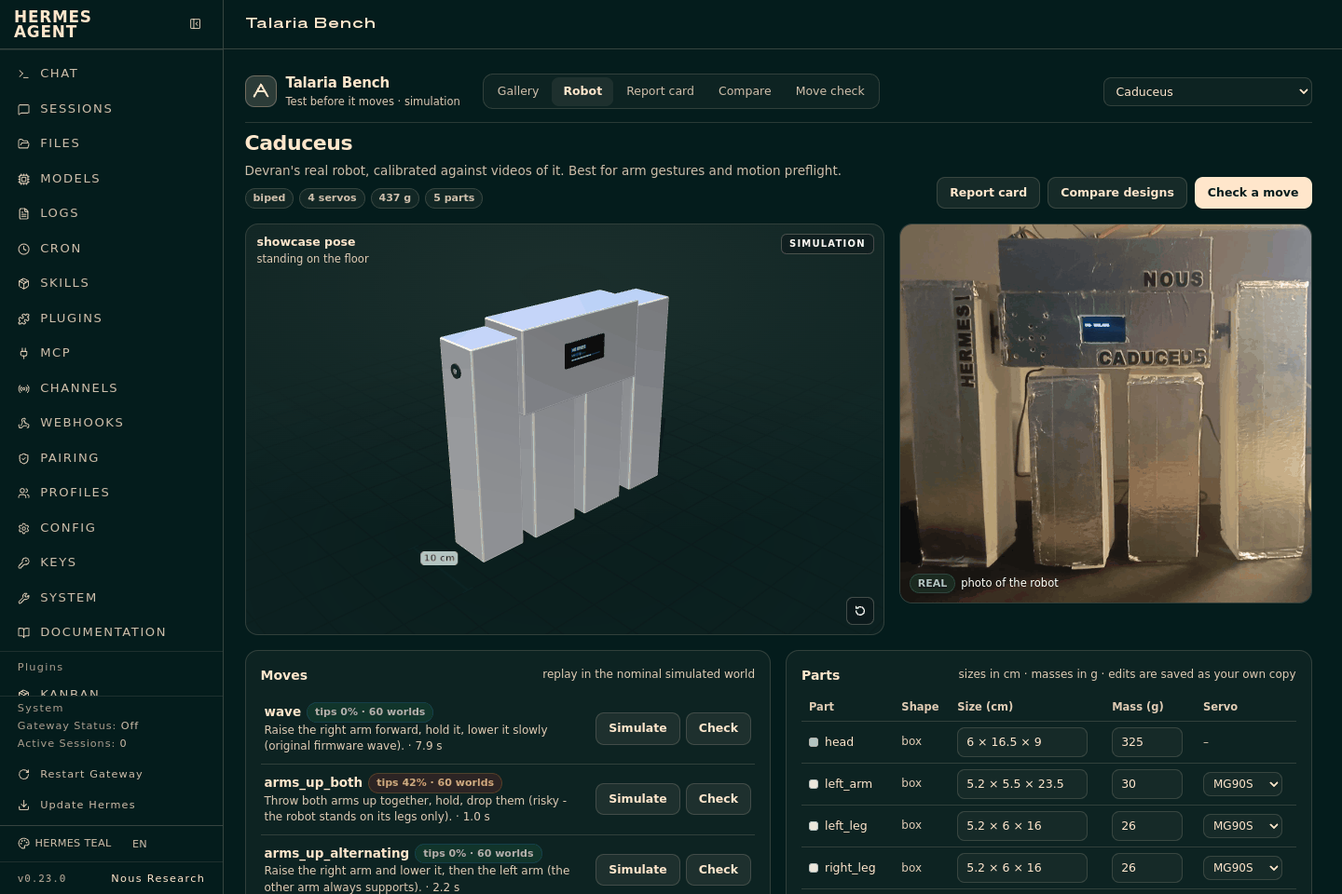
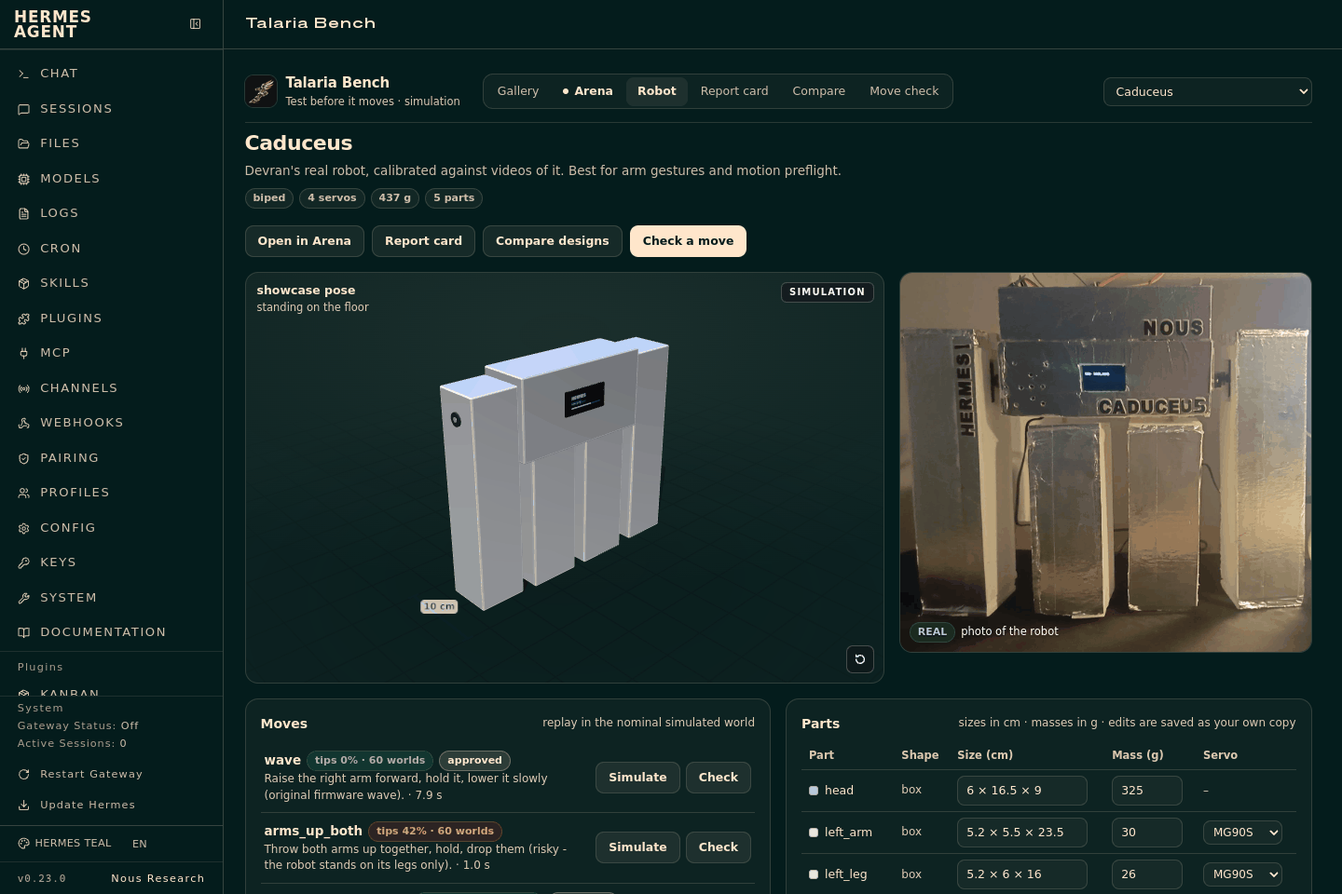
README, screenshots and changelog for the 1.0.0 release
README: Arena section with a screenshot, every user-facing feature (tools,
commands, CLI, saved moves, custom pose, median/worst replay, OUT OF MODEL
SCOPE, safety layers, firmware HTTP API), the real-hardware results for
Caduceus and the new scope and assumptions, a demo video placeholder, and
images as Markdown so the catalog page shows them. The 3D model is described
as built from a template and measurements; the photo is for comparison.
Fresh screenshots of the current UI (Arena tab, new logo), banner, tour GIF
and pipeline diagram. CHANGELOG 1.0.0 and the catalog draft updated.

diff --git a/scripts/ui_screens.py b/scripts/ui_screens.py
@@ -41,11 +41,10 @@ def settle(page: Page, ms: int = 2500) -> None:
     page.wait_for_timeout(ms)
 
 
-def shot(page: Page, prefix: str, name: str, full: bool = False) -> None:
+def shot(page: Page, prefix: str, name: str, full: bool = False, clip: dict | None = None) -> None:
     OUT.mkdir(parents=True, exist_ok=True)
     path = OUT / f"{prefix}-{name}.png"
-    clip = None
-    if prefix.startswith("desktop") and not full:
+    if clip is None and prefix.startswith("desktop") and not full:
         # Leave out the Desktop session list: it shows the user's own chat titles and user name.
         size = page.viewport_size or {"width": 1440, "height": 960}
         clip = {"x": 261, "y": 0, "width": size["width"] - 261, "height": size["height"]}
@@ -117,9 +116,30 @@ def run(page: Page, prefix: str) -> None:
     page.wait_for_timeout(500)
     shot(page, prefix, "compare-spider8-high-step")
 
+    # Arena: the spider next to a 1.3x larger copy (the page's default change) on the 10 deg ramp, same world.
+    tab(page, "Arena")
+    page.wait_for_selector(".tb-scene-grid", timeout=60_000)
+    page.locator(".tb-scene", has_text="Ramp 10").first.click()
+    page.wait_for_timeout(400)
+    page.get_by_role("button", name="Simulate").click()
+    page.wait_for_selector(".tb-arena-replay canvas", timeout=300_000)
+    page.wait_for_selector(".tb-table-arena", timeout=300_000)
+    settle(page, 3500)
+    scrub(page, 5.0)
+    page.locator(".tb-arena-replay").evaluate("el => el.scrollIntoView({ block: 'start' })")
+    page.wait_for_timeout(700)
+    # The page ends below the results, so the replay cannot reach the top: crop to the replay and the results.
+    top = page.locator(".tb-arena-replay").bounding_box()
+    bottom = page.locator(".tb-card", has=page.locator(".tb-table-arena")).bounding_box()
+    pad = 16
+    shot(page, prefix, "arena-spider8-ramp10", clip={"x": top["x"] - pad, "y": top["y"] - pad,
+                                                      "width": top["width"] + 2 * pad,
+                                                      "height": bottom["y"] + bottom["height"] - top["y"] + 2 * pad})
+
     tab(page, "Move check")
     pick_robot(page, "caduceus")
-    for move, name in (("arms_up_both", "check-arms_up_both-blocked"), ("arms_up_alternating", "check-arms_up_alternating-pass")):
+    # The passing example is the wave: it passed the gate and also played as checked on the real Caduceus.
+    for move, name in (("arms_up_both", "check-arms_up_both-blocked"), ("wave", "check-wave-pass")):
         page.locator(".tb-field select").first.select_option(move)
         page.get_by_role("button", name="Run preflight").click()
         page.wait_for_selector(".tb-verdict", timeout=300_000)

diff --git a/scripts/readme_media.py b/scripts/readme_media.py
@@ -3,7 +3,7 @@
 * docs/img/banner.png (2:1, the catalog image): the Caduceus photo next to its 3D model, four gallery robots,
   the name and the headline. Laid out as HTML and rendered with headless Chromium.
 * docs/img/banner-x.png (1500x500): the cover for an X / social profile: the logo, the name and the tagline.
-* docs/img/tour.gif: gallery -> robot page -> report card -> replay -> compare -> BLOCKED -> PASS.
+* docs/img/tour.gif: gallery -> robot page -> report card -> replay -> compare -> Arena -> BLOCKED -> PASS.
 * docs/img/screens/*.png are re-saved with a 256-colour palette (README use only; keeps the repository small).
 
 Dev tool (needs Playwright and Pillow, which are not plugin dependencies). Run after render_gallery.py and
@@ -84,7 +84,7 @@ li::before { content: ""; width: 8px; height: 8px; border-radius: 50%; backgroun
   <h1><img src="@@LOGO@@">Talaria Bench</h1>
   <p class="head">Test your DIY robot in physics<br>before it moves.<b>No GPU, no CAD.</b></p>
   <ul>
-    <li>Robot from a photo and a few measurements</li>
+    <li>Robot from a template and a few measurements</li>
     <li>Arena benchmark with a report card</li>
     <li>Compare designs before you build</li>
     <li>Every real move screened in simulation</li>
@@ -200,13 +200,15 @@ def tour() -> Path:
              ("dashboard-report-spider8", "3  One click: the report card"),
              ("dashboard-report-spider8-replay", "4  Replay the median and the worst world"),
              ("dashboard-compare-spider8-high-step", "5  Compare design variants on the same worlds"),
-             ("dashboard-check-arms_up_both-blocked", "6  Preflight blocks a move that tips"),
-             ("dashboard-check-arms_up_alternating-pass", "7  A revised move passes the gate")]
+             ("dashboard-arena-spider8-ramp10", "6  Arena: a robot and its changed version, same world"),
+             ("dashboard-check-arms_up_both-blocked", "7  Preflight blocks a move that tips"),
+             ("dashboard-check-wave-pass", "8  A move that passes the gate")]
     W, H, BAR = 960, 640, 44
     frames = []
     for name, caption in shots:
         im = Image.open(SCREENS / f"{name}.png").convert("RGB")
-        im = im.crop((HERMES_NAV_PX, 0, im.width, im.height))
+        if im.width >= 1440:                                       # a full window: leave out Hermes's own navigation
+            im = im.crop((HERMES_NAV_PX, 0, im.width, im.height))
         im = im.resize((W, int(im.height * W / im.width)), Image.LANCZOS).crop((0, 0, W, H - BAR))
         frame = Image.new("RGB", (W, H), BG)
         frame.paste(im, (0, BAR))

diff --git a/scripts/diagrams.py b/scripts/diagrams.py
@@ -79,11 +79,11 @@ class Svg:
 
 
 def pipeline(theme) -> Svg:
-    s = Svg(1040, 232, theme, "How Talaria Bench works: robot spec and photo, MuJoCo model, randomized worlds, "
+    s = Svg(1040, 232, theme, "How Talaria Bench works: robot spec, MuJoCo model, randomized worlds, "
                               "arena scenes, report card")
     w, h, gap, y = 176, 158, 40, 14
     boxes = [
-        ("Robot spec + photo", ["parts in cm and g,", "hobby servo models;", "photo: appearance only"]),
+        ("Robot spec", ["template + your numbers:", "parts in cm and g,", "hobby servo models"]),
         ("MuJoCo model", ["soft contacts by material,", "servo torque and speed,", "servo free play"]),
         ("Randomized worlds", ["friction, mass, torque,", "latency, offsets, floor tilt;", "30 per scene, 60 per move"]),
         ("Arena scenes", ["flat floor, ramps, bars,", "push, slippery floor,", "payload, standing moves"]),

diff --git a/README.md b/README.md
@@ -1,4 +1,4 @@
-<p align="center"><img src="docs/img/banner.png" alt="Talaria Bench: a real foam-board robot next to its simulated model" width="100%"></p>
+![Talaria Bench: a photo of a real foam-board robot next to its simulated model](docs/img/banner.png)
 
 # <img src="docs/img/logo-tile.png" alt="" width="40" align="top"> Talaria Bench
 
@@ -13,14 +13,17 @@ A [Hermes Agent](https://github.com/NousResearch/hermes-agent) plugin for hobby 
 MG996R and friends), built on MuJoCo. In Greek myth, talaria are Hermes's winged sandals: the thing that
 makes him move.
 
-- Describe your robot with a photo and a few measurements, and see it in 3D inside Hermes.
+- Build your robot from a template and a few measurements, and see it in 3D inside Hermes, next to its photo.
 - One click: flat ground, ramp, obstacles, push and slippery-floor tests, with a report card that says why it fails.
 - Compare design variants (longer legs, stronger servos) before you build or print anything.
 - Arena: put a robot and a resized, reweighted or re-servoed version of it on the same ramp, bar or push test and
   watch both side by side in the same world.
 - Every move Hermes sends to your real robot is screened in simulation first.
 
-<p align="center"><img src="docs/img/tour.gif" alt="Gallery, a robot next to its photo, report card, replay, design comparison, a blocked move and a passing move" width="92%"></p>
+Demo video: `<VIDEO LINK>`
+
+![Gallery, a robot next to its photo, report card, replay, design comparison, Arena, a blocked move and a passing move](docs/img/tour.gif)
+
 <p align="center"><sub>The Talaria Bench tab in the Hermes web dashboard (simulation).</sub></p>
 
 Every number Talaria Bench shows comes from simulation and is labelled that way. It is
@@ -36,11 +39,16 @@ This clones the plugin, installs its Python dependencies (`mujoco`, `numpy`, `py
 environment and enables it. Without `--yes-deps` Hermes asks before installing them.
 
 - **Hermes Desktop:** Capabilities -> Plugins -> make sure Talaria Bench is enabled, then open the
-  **Talaria Bench** page in the sidebar.
+  **Talaria Bench** page in the sidebar (light and dark themes).
 - **Web dashboard:** run `hermes dashboard` and open the **Talaria Bench** tab.
-- **Chat:** `/talaria demo` gives a tour without hardware: a quick benchmark of the spider, then the
+- **Chat:** `/talaria demo` gives a guided tour without hardware: a quick benchmark of the spider, then the
   preflight of two Caduceus moves (one is blocked, one passes) and a play on the virtual robot.
-  `/talaria help` lists the other commands; `hermes talaria --help` does the same in a terminal.
+  `/talaria status | gallery | bench | report | check | play | demo`; `/talaria help` lists them.
+- **Tools:** Hermes calls 14 tools on its own: `robot_list`, `robot_define`, `robot_show`, `bench_run`,
+  `bench_status`, `bench_report`, `bench_compare`, `move_check`, `move_save`, `move_list`, `robot_play`,
+  `robot_pose`, `robot_stop`, `robot_status`.
+- **Terminal:** `hermes talaria status | gallery | bench | report | check | play | demo | firmware | sim`
+  (`hermes talaria --help`).
 
 Or just ask Hermes: *"Benchmark the spider and tell me where it fails"*, *"Add my robot"* (with a photo),
 *"Write a dance for Caduceus and check it"*.
@@ -63,16 +71,29 @@ Or just ask Hermes: *"Benchmark the spider and tell me where it fails"*, *"Add m
   <tr>
     <td><img src="docs/img/screens/desktop-check-arms_up_both-blocked.png" alt="Move check: arms_up_both is BLOCKED, it tips in 25 of 60 simulated worlds"><br>
       <sub><b>BLOCKED.</b> The move tips the robot in 25 of 60 simulated worlds; the gate refuses it and says what to change.</sub></td>
-    <td><img src="docs/img/screens/dashboard-check-arms_up_alternating-pass.png" alt="Move check: arms_up_alternating passes, 0 of 60 simulated worlds tip"><br>
-      <sub><b>PASS.</b> The revised move is approved for exactly this move, speed and robot spec.</sub></td>
+    <td><img src="docs/img/screens/dashboard-check-wave-pass.png" alt="Move check: the wave passes, 0 of 60 simulated worlds tip"><br>
+      <sub><b>PASS.</b> The wave is approved for exactly this move, speed and robot spec.</sub></td>
   </tr>
 </table>
+
+## Arena
+
+![Arena: the spider and a 1.3 times larger copy on the 10 degree ramp, replayed side by side in the same simulated world, with a results table](docs/img/screens/dashboard-arena-spider8-ramp10.png)
+
+<p align="center"><sub>The spider and a copy 1.3 times its size on the 10° ramp, in the same simulated world.</sub></p>
+
+The Arena page puts a robot and one changed version of it (size x0.6 to x1.8, total mass, servo model) on one
+scene: flat floor, a 5, 10 or 15° ramp, a 1 or 2 cm bar, a push, a slippery floor or an arm payload. Both run
+in the same 10 randomized worlds. Their 3D replays play side by side in one world (the median world, the worst
+world, or a world where the two differ), with the terrain drawn, and a results table gives each one's pass rate,
+median distance, tip count and worst world. Without a change it simulates the robot alone. An Arena run never
+touches the robot's report card.
 
 ## How it works
 
 <p align="center"><picture>
   <source media="(prefers-color-scheme: dark)" srcset="docs/img/diagram-pipeline-dark.svg">
-  <img src="docs/img/diagram-pipeline-light.svg" alt="Robot spec and photo, MuJoCo model, randomized worlds, arena scenes, report card" width="100%">
+  <img src="docs/img/diagram-pipeline-light.svg" alt="Robot spec, MuJoCo model, randomized worlds, arena scenes, report card" width="100%">
 </picture></p>
 <p align="center"><sub>From a robot spec to a report card.</sub></p>
 
@@ -84,26 +105,33 @@ Or just ask Hermes: *"Benchmark the spider and tell me where it fails"*, *"Add m
 
 - **Robot spec.** Parts (box, cylinder, sphere), sizes in cm, masses in g, joints with ranges
   and hobby servo models from a small servo catalog. See [docs/robot-spec.md](docs/robot-spec.md).
-- **Arena.** Flat floor, ramps of 5, 10 and 15 deg, bars of 1 and 2 cm, a push test (0.05 to 1 x body
+- **Arena benchmark.** Flat floor, ramps of 5, 10 and 15 deg, bars of 1 and 2 cm, a push test (0.05 to 1 x body
   weight from four sides), a slippery floor (foot friction 0.08-0.15), payload steps for arms, and the
   robot's own moves. Each scene runs in 30 randomized worlds by default (10 with `quick`; 10 to 200 on
-  request). Benchmarks run as background jobs; a full benchmark of one robot takes about one to two minutes
-  on a 4-core laptop CPU.
+  request). Benchmarks run as background jobs with progress and a log (`bench_status`); a full benchmark of
+  one robot takes about one to two minutes on a 4-core laptop CPU.
 - **Report card.** GREEN / AMBER / RED per scene with the pass rate, the median and p10 of the scene's
-  main metric, the worst world and the top failure reasons. Distances count only steady progress, so a
-  one-time lurch earns nothing. Format: [docs/report-format.md](docs/report-format.md).
+  main metric, the worst world, the top failure reasons and servo load estimates. Distances count only
+  steady progress, so a one-time lurch earns nothing. Click a scene to replay its median world and its worst
+  world side by side. Scenes a model cannot simulate honestly (Caduceus's foam-foot walk, for example) are
+  marked OUT OF MODEL SCOPE instead of being scored. Format: [docs/report-format.md](docs/report-format.md).
 - **Design comparison.** Up to six variants (`legs +1.5 cm`, another servo, more mass) on the same worlds.
+- **Moves.** A move is a list of keyframes (time and joint angles). Hermes can write one (say, a dance for
+  your robot), check it and save it with `move_save`; `move_list` shows a robot's moves.
 - **Motion preflight.** A move runs in 60 fixed randomized worlds. It passes when the upper end of the
   95% Wilson interval of its tip chance is at most 10% and no servo peaks above 90% of its stall torque
   (90th percentile across worlds). A quick check starts with 30 worlds and extends a clean run to 60; it
-  never blocks on fewer than 30. Speed-limit stretches, self and ground collisions are reported too.
+  never blocks on fewer than 30. Speed-limit stretches, self and ground collisions are reported too. The
+  Move check page also checks a custom pose: go there, hold it, come back home.
 - **The gate.** A `pre_tool_call` hook lets `robot_play` and `robot_pose` through only when that exact
-  move (frames, loops, easing), speed and robot spec passed. Any change needs a new check.
+  move (frames, loops, easing), speed and robot spec passed. Any change needs a new check. The same rule
+  holds for `/talaria play` and `hermes talaria play`.
 
 ## Robot gallery
 
 Seven robots ship in `examples/robots/`. Headlines from the arena benchmark (simulation, 30 worlds per
-scene; full cards in [examples/reports/](examples/reports/), more in [docs/gallery.md](docs/gallery.md)):
+scene; full cards in [examples/reports/](examples/reports/), more in [docs/gallery.md](docs/gallery.md), how
+Caduceus was calibrated in [docs/calibration-caduceus.md](docs/calibration-caduceus.md)):
 
 | Simulation&nbsp;render | Robot | Servos | Mass | Benchmark headline (simulation) |
 |---|---|---|---|---|
@@ -112,18 +140,20 @@ scene; full cards in [examples/reports/](examples/reports/), more in [docs/galle
 | <img src="docs/img/gallery/thumbs/desk-biped4.png" alt="desk-biped4 (simulation render)" width="120"> | `desk-biped4` Desk biped | 4 | 166 g | Walks the flat target in 100% of worlds (median 18.9 cm); stuck at both bars. |
 | <img src="docs/img/gallery/thumbs/humanoid16.png" alt="humanoid16 (simulation render)" width="120"> | `humanoid16` Small humanoid | 16 | 802 g | `dance_safe` stays upright; `dance_risky` tips it in 95% of 60 preflight worlds. |
 | <img src="docs/img/gallery/thumbs/arm6.png" alt="arm6 (simulation render)" width="120"> | `arm6` Desk arm (fixed base) | 6 | 758 g | Max safe payload median 100 g (p10 95 g); at 200 g the upper arm reaches stall (estimate). |
-| <img src="docs/img/gallery/thumbs/caduceus.png" alt="caduceus (simulation render)" width="120"> | `caduceus` Caduceus | 4 | 437 g | `arms_up_both` tips it in 42% of 60 preflight worlds; `arms_up_alternating` passes. Walking is out of model scope. |
+| <img src="docs/img/gallery/thumbs/caduceus.png" alt="caduceus (simulation render)" width="120"> | `caduceus` Caduceus | 4 | 437 g | `arms_up_both` tips it in 42% of 60 preflight worlds; `wave` passes. Walking is out of model scope. |
 | <img src="docs/img/gallery/thumbs/caduceus_v2.png" alt="caduceus_v2 (simulation render)" width="120"> | `caduceus_v2` Caduceus v2 (design variant) | 4 | 437 g | Tighter joints and a lower centre of mass: survives a nudge from every side in 100% of worlds. |
 
-<p align="center"><img src="docs/img/gallery.png" alt="The seven bundled robots rendered in 3D (simulation)" width="100%"></p>
+![The seven bundled robots rendered in 3D (simulation)](docs/img/gallery.png)
+
 <p align="center"><sub>The seven bundled robots, drawn by the same renderer as the app. The bar on the floor is 10 cm.</sub></p>
 
 ## Bring your own robot
 
-- **From a photo, in chat.** Send Hermes a photo and say "add my robot". The bundled `robot-onboarding`
-  skill reads the photo for structure only (family, limbs, servos), asks for the three or four
-  measurements that matter most, and builds the model from a template. Sizes and masses come from you;
-  anything estimated is named as an estimate. The photo is shown next to the 3D model.
+- **In chat, with a photo.** Send Hermes a photo and say "add my robot". The bundled `robot-onboarding`
+  skill reads the photo for structure only (family, limbs, servos) to pick the closest template, asks for
+  the three or four measurements that matter most, and builds the model from that template and your
+  numbers. Sizes and masses come from you; anything estimated is named as an estimate. The 3D model is not
+  made from the photo: the photo is shown next to it for comparison.
 - **From a template.** `block_robot` (Caduceus-like), `biped4`, `quadruped` (8 or 12 servos), `hexapod`,
   `arm`, `humanoid`, each with a few numbers. The dashboard has a New robot form for the same templates.
 - **From a spec file.** Write the YAML yourself: [docs/robot-spec.md](docs/robot-spec.md). Your robots are
@@ -137,12 +167,17 @@ scene; full cards in [examples/reports/](examples/reports/), more in [docs/galle
 </picture></p>
 <p align="center"><sub>The hardware path. Moves travel as data; the firmware never needs reflashing for a new move.</sub></p>
 
+Several layers stand between a move and the servos: the preflight gate, the robot token, the spec-hash
+check, the firmware's own angle and speed limits, and a slow return to home before every move. Together
+they lower the risk; none of them is a guarantee (see [Scope and assumptions](#scope-and-assumptions)).
+
 - **Firmware.** `firmware/talaria_robot/` is an ESP32 + PCA9685 sketch. `hermes talaria firmware <robot>
   <folder>` writes the sketch plus a `robot_config.h` generated from the robot spec (I2C pins, servo
   channels, joint ranges, speed limits, home pose, spec hash) and a random 128-bit robot token, and prints the
   `hermes config set TALARIA_ROBOT_TOKEN <token>` line. Copy `secrets.example.h` to `secrets.h`, add your
   Wi-Fi, build with the ESP32 core and the Adafruit PWM Servo Driver and ArduinoJson 7 libraries.
-  Moves are sent as data (keyframes) over HTTP, so there is no reflashing per move. The firmware clamps
+  Moves are sent as data (keyframes) to the robot's small HTTP API (`/info`, `/state`, `/play`, `/pose`,
+  `/stop`), so there is no reflashing per move. The firmware clamps
   every angle to its joint range and stretches every transition to the joint's speed limit on its own.
 - **Settings** (Hermes Desktop: Settings -> Plugins -> Talaria Bench, or
   `plugins.entries.talaria-bench.settings`): `robot_url` (for example `http://192.168.1.8`),
@@ -153,7 +188,7 @@ scene; full cards in [examples/reports/](examples/reports/), more in [docs/galle
   refusals can be turned off explicitly (`allow_firmware_mismatch`, `allow_unauthenticated_robot`, both
   off by default). `robot_stop` and `robot_status` always work.
 - **Every move starts from home.** `robot_play` and `robot_pose` first ease the robot back to its home
-  pose at half of each joint's speed limit (at least 600 ms) and wait until it is idle there, then play.
+  pose at half of each joint's speed limit (taking at least 3 seconds) and wait until it is idle there, then play.
   The preflight simulates moves from the home pose, so this keeps the real start pose equal to the
   simulated one. **This return to home is not simulated itself.** It is skipped when the robot already
   stands still at home; a robot that does not reach home in time gets no move. `robot_stop` with
@@ -163,31 +198,18 @@ scene; full cards in [examples/reports/](examples/reports/), more in [docs/galle
 
 ## The Caduceus story
 
-Caduceus is Devran's own robot: a foam-board biped with four MG90S servos, two long arms and two short
-legs. Its simulation model was calibrated against videos of the real robot, sampling hundreds of
-parameter sets (geometry, foam softness, servo play, firmware timing) against what the clips show. That
-search found that the original firmware played moves about 2.5 times slower than its code suggests,
-because the servo library re-read a register on every write; the Talaria firmware writes the servo
-signal directly, so a move plays at the timing it was checked at. Details:
-[docs/calibration-caduceus.md](docs/calibration-caduceus.md).
+Caduceus is Devran's foam-board robot: an ESP32, a PCA9685 driver and four MG90S servos. Its model was calibrated against videos of the real robot, which also revealed the firmware's real servo speed. On the real robot, the gate held back a move the simulation predicted would tip it, and approved moves (a left-arm lift, a wave) played exactly as checked.
 
 ## Scope and assumptions
 
-- Robots are rigid bodies. Soft materials (foam, rubber feet) are approximated with soft contacts, not
-  simulated as deforming parts. Where that is not enough, a spec declares a limitation and the report
-  card shows those scenes as OUT OF MODEL SCOPE instead of scoring them (Caduceus's walk is one).
-- Servo loads are estimates: peak torque as a share of the datasheet stall torque, which is not a safe
-  continuous torque. Servo dynamics, gear play, latency and offsets are modelled simply and randomized
-  per world.
-- All results are simulation. Randomized worlds give a spread, not a guarantee about one real run.
-- Preflight screens one move at a time from the home pose; sequences are not screened as a whole (the
-  real robot returns home first, see above).
-- Out of scope today: learning new gaits, automatic sim-to-real calibration, physics from photos,
-  wheels and continuous-rotation servos, sensor feedback (IMU) policies, URDF/MJCF import.
+- Rigid-body approximation: foam, soft feet and cable drag are approximated; servo loads are estimates.
+- Results are probabilities across randomized worlds. A PASS lowers the risk; it is not a guarantee.
+- Tested on real hardware: on Caduceus, fast two-arm moves where an arm drags on the table can still tip the robot even when the simulation passes them, because arm-to-surface friction on soft foam is not modelled yet. Use slow moves and keep a hand nearby on first runs.
+- Walking gaits are outside the model's scope today.
 
 ## Security and privacy
 
-What Talaria Bench does on your machine and network:
+What Talaria Bench does on your machine and network (the disclosures the Hermes plugin catalog asks for):
 
 - **Files.** It writes only inside the plugin data folder Hermes gives it,
   `$HERMES_HOME/plugin-data/talaria-bench/` (outside Hermes: `~/.cache/talaria-bench/`): your robots and
@@ -209,8 +231,8 @@ What Talaria Bench does on your machine and network:
 - **Credentials.** The only credential is the optional robot token, stored and read through Hermes
   secrets (`TALARIA_ROBOT_TOKEN`). Your Wi-Fi password stays in the firmware's `secrets.h` on your
   machine and is never read by the plugin.
-- **No telemetry, no downloads, no shell commands.** Nothing is sent anywhere else, and the plugin never
-  updates itself.
+- **No third-party services, no telemetry, no downloads, no shell commands.** Nothing is sent anywhere
+  else, and the plugin never updates itself.
 
 ## Development
 

diff --git a/CHANGELOG.md b/CHANGELOG.md
@@ -1,6 +1,6 @@
 # Changelog
 
-## 1.0.0 (2026-11-10)
+## 1.0.0 (2026-11-11)
 
 First public release.
 
@@ -12,21 +12,29 @@ First public release.
 - Design comparison of up to six variants on the same worlds.
 - Motion preflight: tip chance over 60 fixed worlds with a 95% Wilson interval, servo load estimates,
   collisions and speed limits; a `pre_tool_call` gate lets `robot_play` / `robot_pose` through only for
-  exactly the move, speed and robot spec that passed.
+  exactly the move, speed and robot spec that passed. The Move check page also checks a custom pose (go
+  there, hold it, come back home). Moves can be written, checked and saved per robot (`move_save`, `move_list`).
 - Real robot: ESP32 + PCA9685 firmware generated per robot (`hermes talaria firmware`), shared random
   robot token, spec-hash check, a return to the home pose before every move that takes at least 3 seconds
   (also for `robot_stop home=true`; a quick drop tips a light robot over), a Wi-Fi link that stays awake;
-  a virtual robot with the same
-  HTTP API (`hermes talaria sim`).
+  a virtual robot with the same HTTP API (`hermes talaria sim`).
+- Tested on the real Caduceus: the gate held back `arms_up_both`, which the simulation predicted would tip
+  it, and a left-arm lift and a wave played as checked. Known gap: fast two-arm moves where an arm drags on
+  the table can still tip it when the simulation passes them (arm-to-surface friction on foam is not
+  modelled yet).
 - Dashboard tab and Desktop page from one UI source: gallery, 3D robot view with its photo, report card,
   compare view, move check with replay.
 - 3D view: parts drawn by material with a servo horn at every joint; each scene shows its own numbers (ramp
   angle, bar height, floor friction, push force, payload mass) and a 10 cm scale mark; replays with slow
   motion and a mark on the part that touches the floor when a run tips. Appearance only, never physics.
 - Arena page: a robot and at most one changed version (size, total mass, servo model) on one scene, 10 worlds,
-  replayed side by side in the same world with the terrain drawn, plus a results table.
+  replayed side by side in the same world with the terrain drawn, plus a results table. An Arena run never
+  changes the robot's report card.
 - Your own robots get a small 3D picture on their gallery card (their photo if 3D is unavailable); a new logo.
 - A robot whose servos cannot hold it up (a big template with weak servos) is replayed as it collapses and says
   so when it is made; template servo defaults follow the size.
-- Photo-assisted onboarding skill (`robot-onboarding`).
+- Photo-assisted onboarding skill (`robot-onboarding`): the photo shows the structure and picks the template;
+  the model is built from the template and your measurements.
 - Seven bundled robots, including Caduceus, calibrated against videos of the real foam-board robot.
+- README: Arena section, every user-facing feature, the real-hardware results, the scope and assumptions,
+  fresh screenshots and tour.
